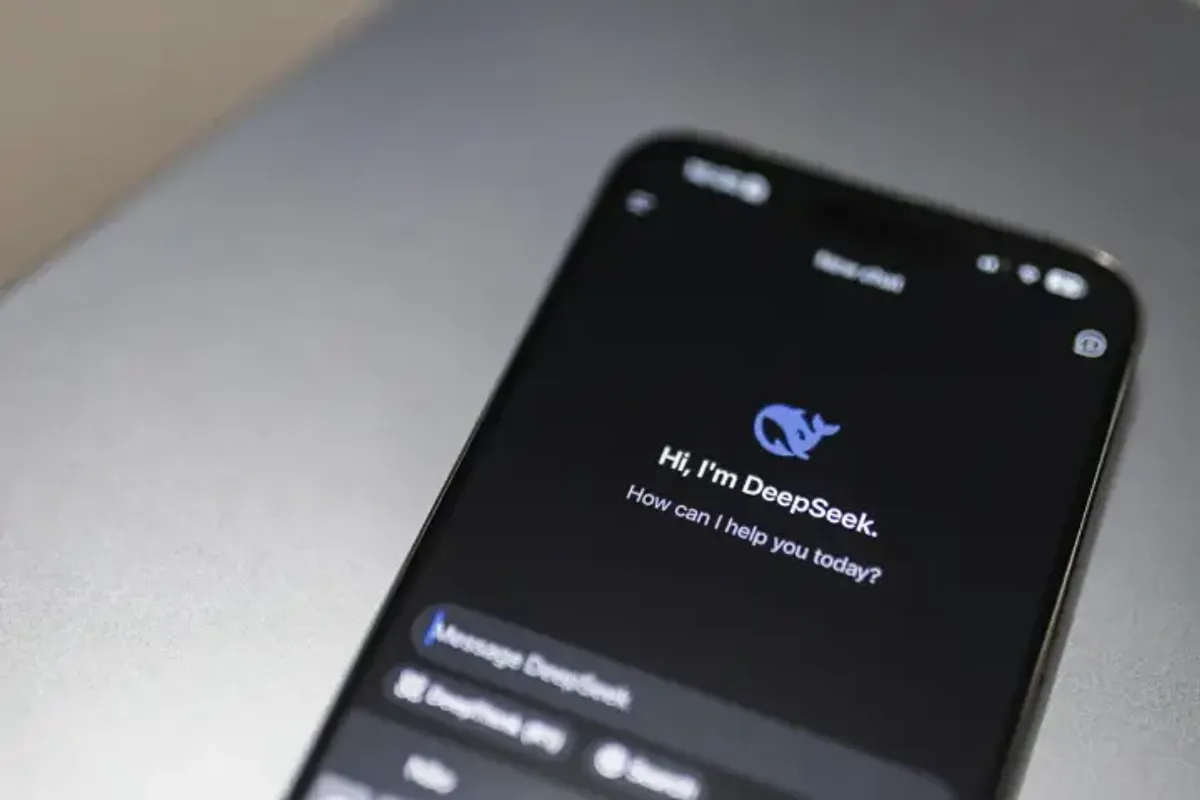
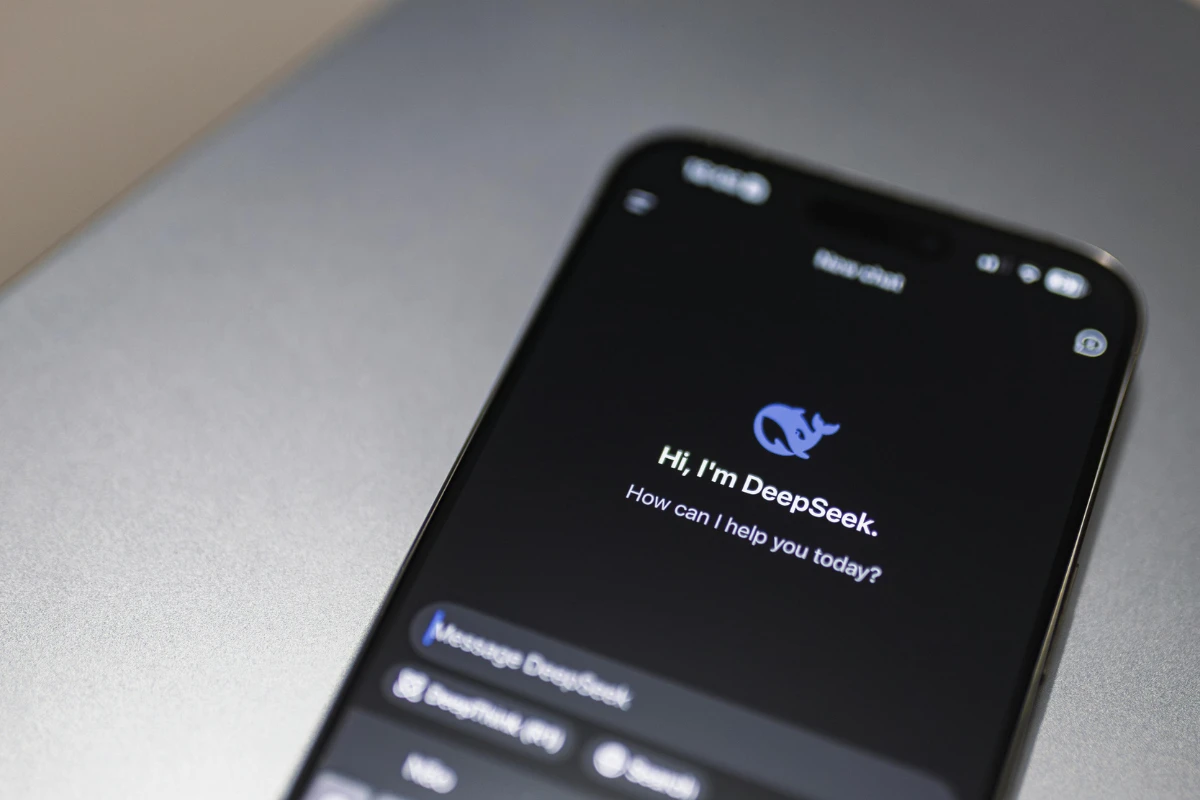
DeepSeek: novo título para Discover e capa 1200x800
Claude-Session: https://claude.ai/code/session_01L4pvhFMWUoAVMxdhxdJhLS

diff --git a/src/content/blog/deepseek-2026-guia-completo.md b/src/content/blog/deepseek-2026-guia-completo.md
@@ -1,91 +1,97 @@
 ---
-title: "DeepSeek em 2026: V4, preços e o que avaliar antes de usar"
-description: "DeepSeek em 2026: veja o que mudou com o V4-Pro e o V4-Flash, a alta de preços, a disputa com ChatGPT e Claude e o que avaliar antes de adotar na empresa."
+title: "IA chinesa grátis que desafia o raciocínio das pagas: DeepSeek"
+description: "Como o DeepSeek, IA chinesa de uso pessoal gratuito, passou a rivalizar com ChatGPT e Claude em raciocínio, o que o V4 mudou e o que pesar antes de usar."
 category: "Inteligência Artificial"
 date: 2026-10-03T12:00:00-03:00
 readingTime: "6 min"
 image: "./images/deepseek-2026-guia-completo.webp"
-imageAlt: "Celular exibindo a tela inicial do aplicativo DeepSeek sobre uma mesa"
+imageAlt: "Celular exibindo a tela inicial do aplicativo DeepSeek sobre uma mesa cinza"
 tags: ["DeepSeek", "DeepSeek V4", "Inteligência artificial", "IA chinesa"]
 related: ["gemini-4-argon", "chatgpt-gratis-ou-pago"]
 ---
 
-O **DeepSeek** deixou de ser a surpresa de 2025 e virou uma das plataformas de IA mais usadas do mundo em 2026. Com o V4, lançado em abril, a empresa chinesa passou a competir de frente com ChatGPT, Claude e Gemini, e agora enfrenta uma mudança importante: o preço baixo que a tornou famosa está subindo.
+Uma empresa chinesa de IA, com um chatbot de uso pessoal gratuito, passou a ser comparada em raciocínio a modelos de assinaturas caras como Claude e ChatGPT. O nome é **DeepSeek**, e em 2026 a história ganhou capítulos novos: o modelo V4, uma disputa de benchmarks e, agora, uma alta de preços que muda a conta de quem usa a API.
 
-Este texto se baseia em reportagens publicadas pelo Canaltech ao longo de 2026, e não em teste próprio. Ele resume o que mudou, o que ainda não está definido e o que vale avaliar antes de usar o DeepSeek no trabalho.
+Este texto se baseia em reportagens do TechTudo e do Canaltech, e não em teste próprio. A ideia é explicar por que o DeepSeek chamou tanta atenção, até onde vai o "grátis" e o que ainda precisa de cautela.
 
 ## Resumo rápido
 
-| 🎯 Ponto | ✅ O que se sabe |
+| 🎯 Pergunta | ✅ Resposta curta |
 | --- | --- |
-| Modelos atuais | DeepSeek V4-Pro e V4-Flash |
-| Janela de contexto | Até 1 milhão de tokens |
-| Escala | V4-Pro com 1,6 trilhão de parâmetros e V4-Flash com 284 bilhões |
-| Preço | Em alta: a empresa anunciou um aumento "relativamente grande" |
-| Disputa | Benchmarks comparáveis a modelos de ponta, segundo o Canaltech |
+| É gratuita? | Para uso pessoal no chat, sim, segundo o TechTudo; a API é paga por token |
+| Desafia as pagas? | O Canaltech cita benchmarks comparáveis ao Claude Fable 5, mas rankings variam |
+| Modelos atuais | V4-Pro e V4-Flash, com contexto de até 1 milhão de tokens |
+| O que mudou | Aumento de preços anunciado em agosto de 2026 |
 
-## Como o DeepSeek chegou ao V4
+## Por que o DeepSeek chamou atenção
 
-O DeepSeek ganhou projeção mundial com o modelo de raciocínio R1, lançado em janeiro de 2025. O TechTudo lembra que a empresa surgiu da área de pesquisa do fundo High-Flyer e ficou conhecida por entregar bom desempenho com muito menos recursos computacionais que os rivais.
+O DeepSeek ganhou projeção mundial com o modelo de raciocínio R1, lançado em janeiro de 2025. Segundo o [TechTudo](https://www.techtudo.com.br/listas/2025/01/deepseek-e-gratuita-confira-3-mitos-e-3-verdades-sobre-a-ia-chinesa-edsoftwares.ghtml), o assistente era gratuito para uso individual e baseado em código aberto, com custo de desenvolvimento muito menor que o das big techs americanas, estimado em cerca de US$ 5,6 milhões.
 
-Em abril de 2026, veio a geração V4. Segundo o [Canaltech](https://canaltech.com.br/apps/deepseek-novo-modelo-de-ia-de-baixo-custo-chines-acirra-disputa-com-os-eua/), em reportagem de 27 de abril, o V4 foi apresentado em versão de testes, com duas variantes: o **V4 Pro**, de 1,6 trilhão de parâmetros, para tarefas complexas, e o **V4 Flash**, de 284 bilhões, mais leve e barato para uso comercial. Ambos trabalham com contexto de até 1 milhão de tokens.
+O que diferenciava o R1 era o **raciocínio em etapas**: em vez de responder de imediato, o modelo "pensa" antes e mostra parte desse caminho. Isso o colocou na conversa com os modelos pagos de raciocínio da época.
 
-A DeepSeek também afirma que o modelo foi ajustado para funcionar com agentes de IA e com ferramentas de programação como Claude Code, OpenClaw, OpenCode e CodeBuddy. É uma informação da própria empresa.
+## Ela é mesmo gratuita?
 
-## V4-Pro e a corrida com os rivais
+Depende do uso, e o TechTudo desfaz um mito aqui:
 
-Em 13 de agosto, de acordo com o [Canaltech](https://canaltech.com.br/inteligencia-artificial/deepseek-cresce-no-mercado-e-lanca-nova-ia-para-ameacar-chatgpt-e-claude/), o V4-Pro entrou no ar no app e no site oficial. Os destaques são:
+- **Chat e app, uso pessoal:** o TechTudo informou, em janeiro de 2025, que não era preciso assinatura. Esse dado tem quase dois anos, então confirme as condições atuais no próprio app.
+- **API, para desenvolvedores:** é cobrada por token. Um guia do TechTudo de julho de 2026 diz que não há plano gratuito permanente na API, só crédito promocional inicial em contas novas.
+
+Ou seja, "grátis" vale para quem conversa no chat, não para quem constrói produtos em cima do modelo.
+
+## O salto do V4
+
+Em 27 de abril de 2026, o Canaltech informou que a DeepSeek apresentou o V4 em versão de testes, com duas variantes: o **V4 Pro**, de 1,6 trilhão de parâmetros, e o **V4 Flash**, de 284 bilhões, mais leve e barato. Ambos têm contexto de até 1 milhão de tokens. A empresa afirma que o modelo foi ajustado para ferramentas como Claude Code, OpenClaw, OpenCode e CodeBuddy.
+
+Em 13 de agosto, segundo o [Canaltech](https://canaltech.com.br/inteligencia-artificial/deepseek-cresce-no-mercado-e-lanca-nova-ia-para-ameacar-chatgpt-e-claude/), o V4-Pro foi para o ar no app e no site oficial, com:
 
 - melhorias em tarefas de agente, em que a IA executa etapas sozinha;
-- raciocínio adaptável, que usa pouco esforço em pedidos simples e mais capacidade nos complexos;
-- desempenho de testes (benchmarks) comparável ao do Claude Fable 5 e ao do Kimi K3, também segundo a reportagem.
+- raciocínio adaptável, com pouco esforço em pedidos simples e mais capacidade nos complexos;
+- desempenho em testes comparável ao do Claude Fable 5 e ao do Kimi K3.
 
-O mesmo texto informa que, em julho de 2026, a DeepSeek foi a segunda desenvolvedora de IA em volume de tokens usados, atrás apenas da Anthropic e com quase o dobro do volume do Google. Benchmarks e rankings variam conforme o teste, então trate essas comparações como indicação, e não como veredito.
+O mesmo texto diz que, em julho de 2026, a DeepSeek foi a segunda desenvolvedora de IA em volume de tokens usados, atrás da Anthropic e com quase o dobro do Google. Benchmarks dependem do teste, então vale ver o resultado como indício, e não como veredito. O TechTudo, aliás, lembrava em 2025 que o ChatGPT tinha recursos que o DeepSeek não tinha, como geração de imagem e conversa por voz. A comparação muda a cada lançamento.
 
-## Visão computacional experimental
+## Visão computacional em teste
 
-Segundo o Canaltech, em 21 de agosto a empresa lançou o **DeepSeek-V4-Flash-Vision-Exp**, modelo experimental que processa texto e imagem. Ele consegue interpretar capturas de tela e documentos e executar ações a partir do que aparece na tela. O acesso é pela API, com uma ferramenta gratuita para enviar uma imagem uma vez e reaproveitá-la em várias consultas. Por ser experimental, ainda está em refinamento.
+Em 21 de agosto, o Canaltech noticiou o **DeepSeek-V4-Flash-Vision-Exp**, modelo experimental que processa texto e imagem e consegue agir a partir do que aparece na tela. O acesso é pela API, ainda em fase experimental.
 
-## Preços: a mudança que mais importa
+## A mudança de preços
 
-O baixo custo sempre foi o principal argumento do DeepSeek. Em 7 de agosto, o [Canaltech](https://canaltech.com.br/inteligencia-artificial/para-bancar-super-data-center-deep-seek-anuncia-aumento-de-precos-sem-precedentes/) informou que a empresa anunciou um aumento de preços descrito como "relativamente grande", sem divulgar o percentual.
+O baixo custo foi sempre o argumento central. Em 7 de agosto, o [Canaltech](https://canaltech.com.br/inteligencia-artificial/para-bancar-super-data-center-deep-seek-anuncia-aumento-de-precos-sem-precedentes/) informou que a empresa anunciou um aumento "relativamente grande", sem dizer o percentual.
 
-- **Preço então vigente do V4 Flash:** US$ 0,14 por milhão de tokens de entrada (1 yuan) e US$ 0,28 por milhão de saída (2 yuan).
+- **Preço então vigente do V4 Flash:** US$ 0,14 por milhão de tokens de entrada e US$ 0,28 por milhão de saída.
 - **Novo esquema:** a empresa disse que seria divulgado separadamente.
-- **Horário de pico:** desde julho, as tarifas dobram em horários de pico, das 9h às 12h e das 14h às 18h de Pequim, em dias úteis.
-- **Motivo:** segundo a Bloomberg, citada pelo Canaltech, a DeepSeek planeja um grande data center na Mongólia Interior, com capacidade de 1 gigawatt.
+- **Horário de pico:** desde julho, as tarifas dobram das 9h às 12h e das 14h às 18h de Pequim, em dias úteis.
+- **Motivo:** segundo a Bloomberg, citada pelo Canaltech, a empresa planeja um data center de 1 gigawatt na Mongólia Interior.
 
-Esses valores são os da reportagem de agosto. Os preços podem ter mudado desde então, por isso consulte a página oficial de preços da API antes de fazer qualquer conta. Para uso pelo chat ou pelo app, o que importa é a política vigente do serviço no momento do uso.
+São valores de agosto. Antes de fazer contas, consulte a página oficial de preços da API.
 
-## O que avaliar antes de usar no trabalho
+## O que pesar antes de usar
 
-Para uso profissional, vale pensar em quatro pontos, que são critérios gerais e não conclusões das reportagens:
+São critérios gerais, não conclusões das reportagens:
 
-1. **Dados sensíveis.** Antes de enviar documentos internos, leia a política de privacidade do serviço e as regras da sua empresa.
-2. **Custo real.** Com preços em alta e tarifa de pico, simule o consumo de tokens do seu caso, e não use só o preço de tabela.
-3. **Qualidade no seu caso.** Teste com tarefas reais, em português, e compare com as alternativas que você já usa.
-4. **Dependência.** Se a ferramenta fizer parte de um processo, tenha um plano B para mudanças de preço ou de disponibilidade.
+1. **Dados sensíveis.** Antes de enviar documentos internos, leia a política de privacidade e as regras da sua empresa.
+2. **Qualidade em português.** Teste com tarefas reais suas. O TechTudo observou que o DeepSeek entende português, embora o raciocínio às vezes apareça em inglês.
+3. **Temas políticos.** O TechTudo apontou que a plataforma evita alguns assuntos ligados à política chinesa.
+4. **Custo e dependência.** Com preços em alta, simule o consumo e tenha um plano B.
 
-## DeepSeek ou as alternativas?
+## E as concorrentes?
 
-O mercado está disputado. Quem acompanha os lançamentos viu o Google apresentar o [Gemini 4 Argon](/gemini-4-argon/), ainda de acesso restrito, e quem usa o ChatGPT pode comparar planos no post sobre o [ChatGPT grátis ou pago](/chatgpt-gratis-ou-pago/). A escolha depende do uso: custo por token, qualidade em código, contexto longo e política de dados pesam diferente para cada equipe.
-
-Para mais conteúdo sobre o tema, acesse a página de [Inteligência Artificial](/categoria/inteligencia-artificial/).
+O mercado segue disputado. O Google apresentou o [Gemini 4 Argon](/gemini-4-argon/), ainda de acesso restrito, e quem quer comparar planos de assistentes pode ler sobre o [ChatGPT grátis ou pago](/chatgpt-gratis-ou-pago/). Para mais conteúdo do tema, acesse a página de [Inteligência Artificial](/categoria/inteligencia-artificial/).
 
 ## Perguntas frequentes sobre o DeepSeek
 
-**Qual é o modelo mais recente do DeepSeek?**
+**O DeepSeek é gratuito?**
 
-_Segundo o Canaltech, a geração atual é a V4, com as versões V4-Pro e V4-Flash. Em agosto também surgiu a versão experimental V4-Flash-Vision-Exp, com visão computacional._
+_Para uso pessoal no chat, segundo o TechTudo em 2025. A API é paga por token. Confirme as condições atuais no app._
+
+**O DeepSeek raciocina melhor que o ChatGPT?**
+
+_Depende do teste. O Canaltech cita benchmarks do V4-Pro comparáveis ao Claude Fable 5, mas só um teste com as suas tarefas mostra qual serve melhor._
 
 **Qual a janela de contexto do DeepSeek V4?**
 
-_Até 1 milhão de tokens, de acordo com o Canaltech._
+_Até 1 milhão de tokens, segundo o Canaltech._
 
 **O DeepSeek vai ficar mais caro?**
 
-_A empresa anunciou em agosto um aumento de preços descrito como relativamente grande, sem detalhar o percentual. Consulte a página oficial para os valores atuais._
-
-**O DeepSeek é melhor que o ChatGPT?**
-
-_Depende do uso. Benchmarks citados pelo Canaltech comparam o V4-Pro a modelos de ponta, mas só um teste com as suas tarefas mostra qual serve melhor._
+_A empresa anunciou em agosto um aumento descrito como relativamente grande, sem detalhar o percentual._
